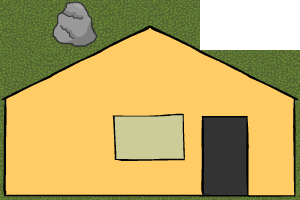
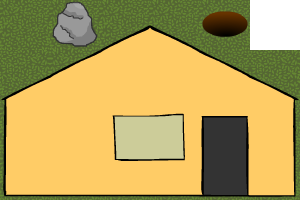
DungeonUI
Nuff said

Changed region(s): [[0.66, 0.0, 0.84, 0.27]]

diff --git a/Mapper/ui/overworld_ui.py b/Mapper/ui/overworld_ui.py
@@ -12,9 +12,9 @@ from sprites.elemental import ElementalAI
 SCREEN_SIZE = (600, 450)
 
 
-class OverworldUI(ui.UI):
+class GameplayUI(ui.UI):
     def __init__(self, main, parent):
-        super(OverworldUI, self).__init__(main, parent)
+        super(GameplayUI, self).__init__(main, parent)
         self.slime = SlimeAI((50, 50))
 
         self.terrain = []
@@ -59,12 +59,12 @@ class OverworldUI(ui.UI):
         pass
 
     def reblit(self, surf, time_passed):
-        super(OverworldUI, self).reblit(surf, time_passed)
-        center = self.slime.centerx - 300, self.slime.centery - 225
-        for t in self.terrain:
-            t.reblit(surf, time_passed, center, self.room_data.pos)
-        for u in self.ui:
-            u.reblit(surf)
+        super(GameplayUI, self).reblit(surf, time_passed)
+        #center = self.slime.centerx - 300, self.slime.centery - 225
+        #for t in self.terrain:
+        #    t.reblit(surf, time_passed, center, self.room_data.pos)
+        #for u in self.ui:
+        #    u.reblit(surf)
 
     def handle_key(self, event):
         if event.key == pygame.K_m:
@@ -112,3 +112,24 @@ class OverworldUI(ui.UI):
         elif self.slime.animations.name[1] != "idle":
             self.slime.animations.cur_animation = (
                 self.slime.animations.name[0], "idle")
+
+
+class OverworldUI(GameplayUI):
+    def reblit(self, surf, time_passed):
+        super(OverworldUI, self).reblit(surf, time_passed)
+        center = self.slime.centerx - 300, self.slime.centery - 225
+        for t in self.terrain:
+            t.reblit(surf, time_passed, center, self.room_data.pos)
+        for u in self.ui:
+            u.reblit(surf)
+
+
+class DungeonUI(GameplayUI):
+    def reblit(self, surf, time_passed):
+        super(DungeonUI, self).reblit(surf, time_passed)
+        center = self.slime.centerx - 300, self.slime.centery - 225
+        center = min(max(center[0], 0), Room.TPS * 50 * self.room_data.w - 600),\
+                 min(max(center[1], 0), Room.TPS * 50 * self.room_data.h - 450)
+        self.room_data.reblit(surf, time_passed, center, self.room_data.pos)
+        for u in self.ui:
+            u.reblit(surf)

diff --git a/Mapper/terrain/rooms.py b/Mapper/terrain/rooms.py
@@ -12,7 +12,8 @@ TILESET = pygame.image.load("imgs/grasslands.png")
 class Grasslands(Room):
     def __init__(self, room):
         map_data = self.generate_room(room)
-        impassible = tuple((x, y) for x in xrange(6) for y in xrange(4) if (x, y) not in ((0, 0), (4, 3), (4, 2)))
+        impassible = tuple((x, y) for x in xrange(6) for y in xrange(4)
+            if (x, y) not in ((0, 0), (4, 3), (4, 2), (4, 0)))
         super(Grasslands, self).__init__(map_data, (TILESET, impassible), room)
         self.entities.add(ElementalAI(
             (random.randint(1, room.w * Room.TPS - 10) * 50,
@@ -25,6 +26,8 @@ class Grasslands(Room):
         toR = [[(1, 0)] * width] + [
             [(1, 0)] + [(0, 0)] * (width - 2) + [(1, 0)]
             for _ in xrange(height - 2)] + [[(1, 0)] * width]
+
+        toR[7][7] = (4, 0)
 
         for x, y, dr in room.paths_iter():
             if (room.x, room.y) == (0, 0):

diff --git a/Mapper/mapper.py b/Mapper/mapper.py
@@ -1,7 +1,7 @@
 import pygame
 
 from ui.map_ui import MapUI, MapDS
-from ui.overworld_ui import OverworldUI
+from ui.overworld_ui import OverworldUI, DungeonUI
 from networking import Client
 
 
